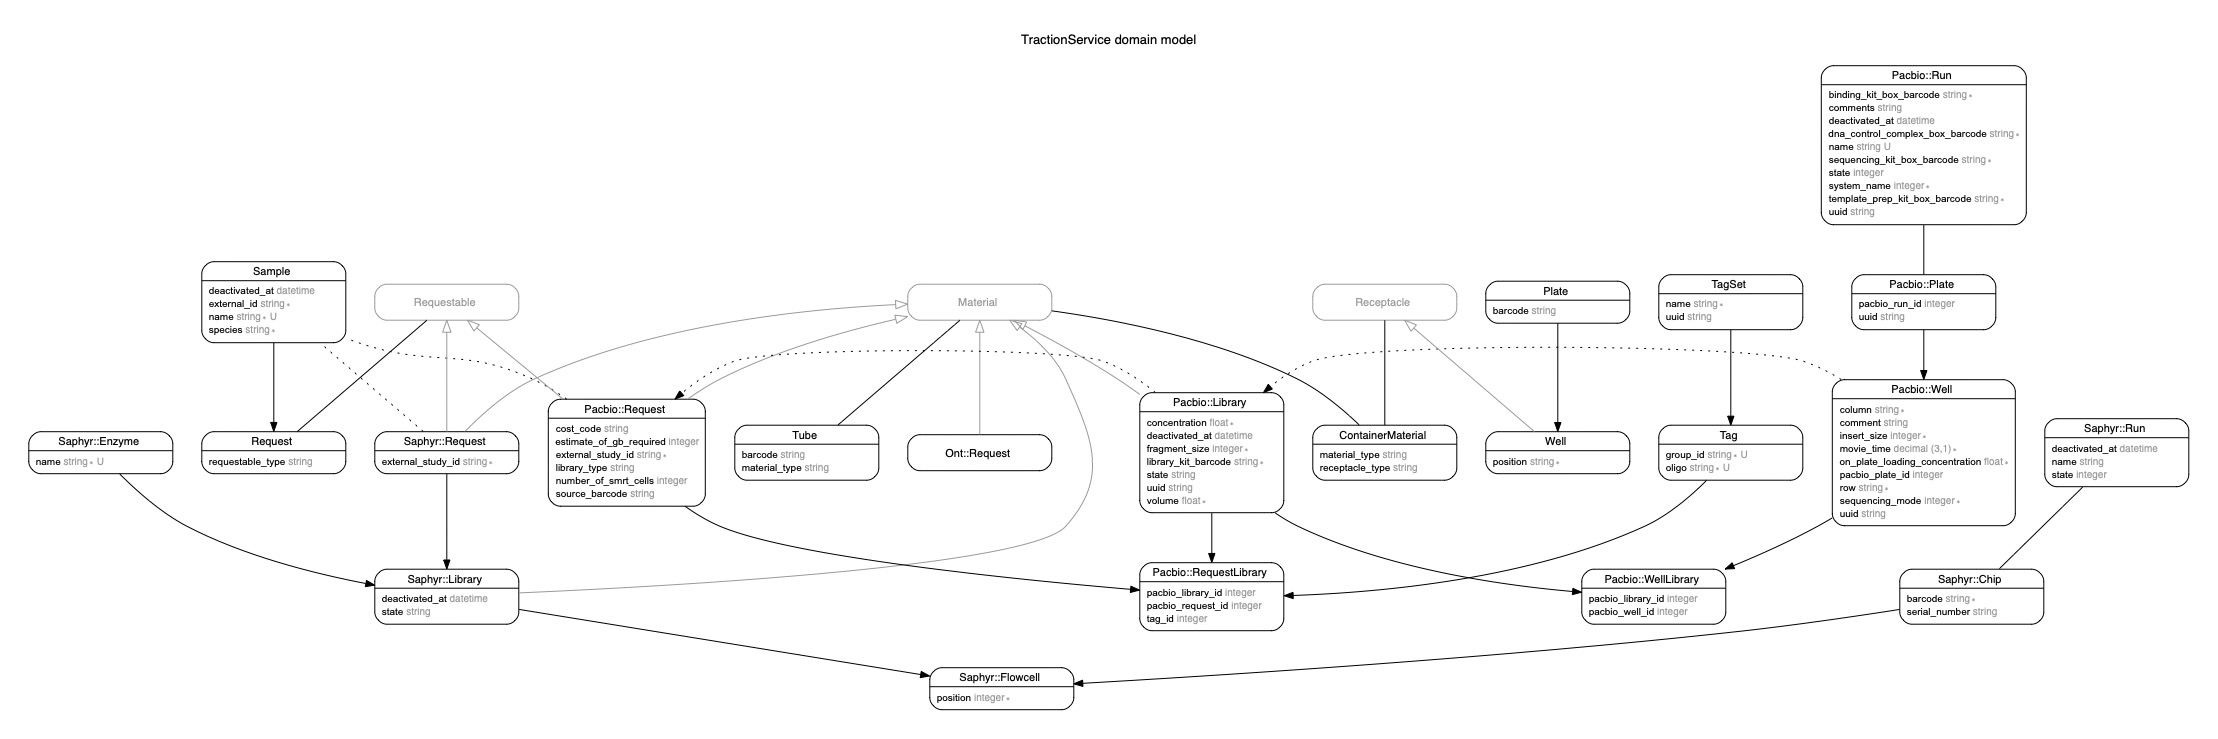
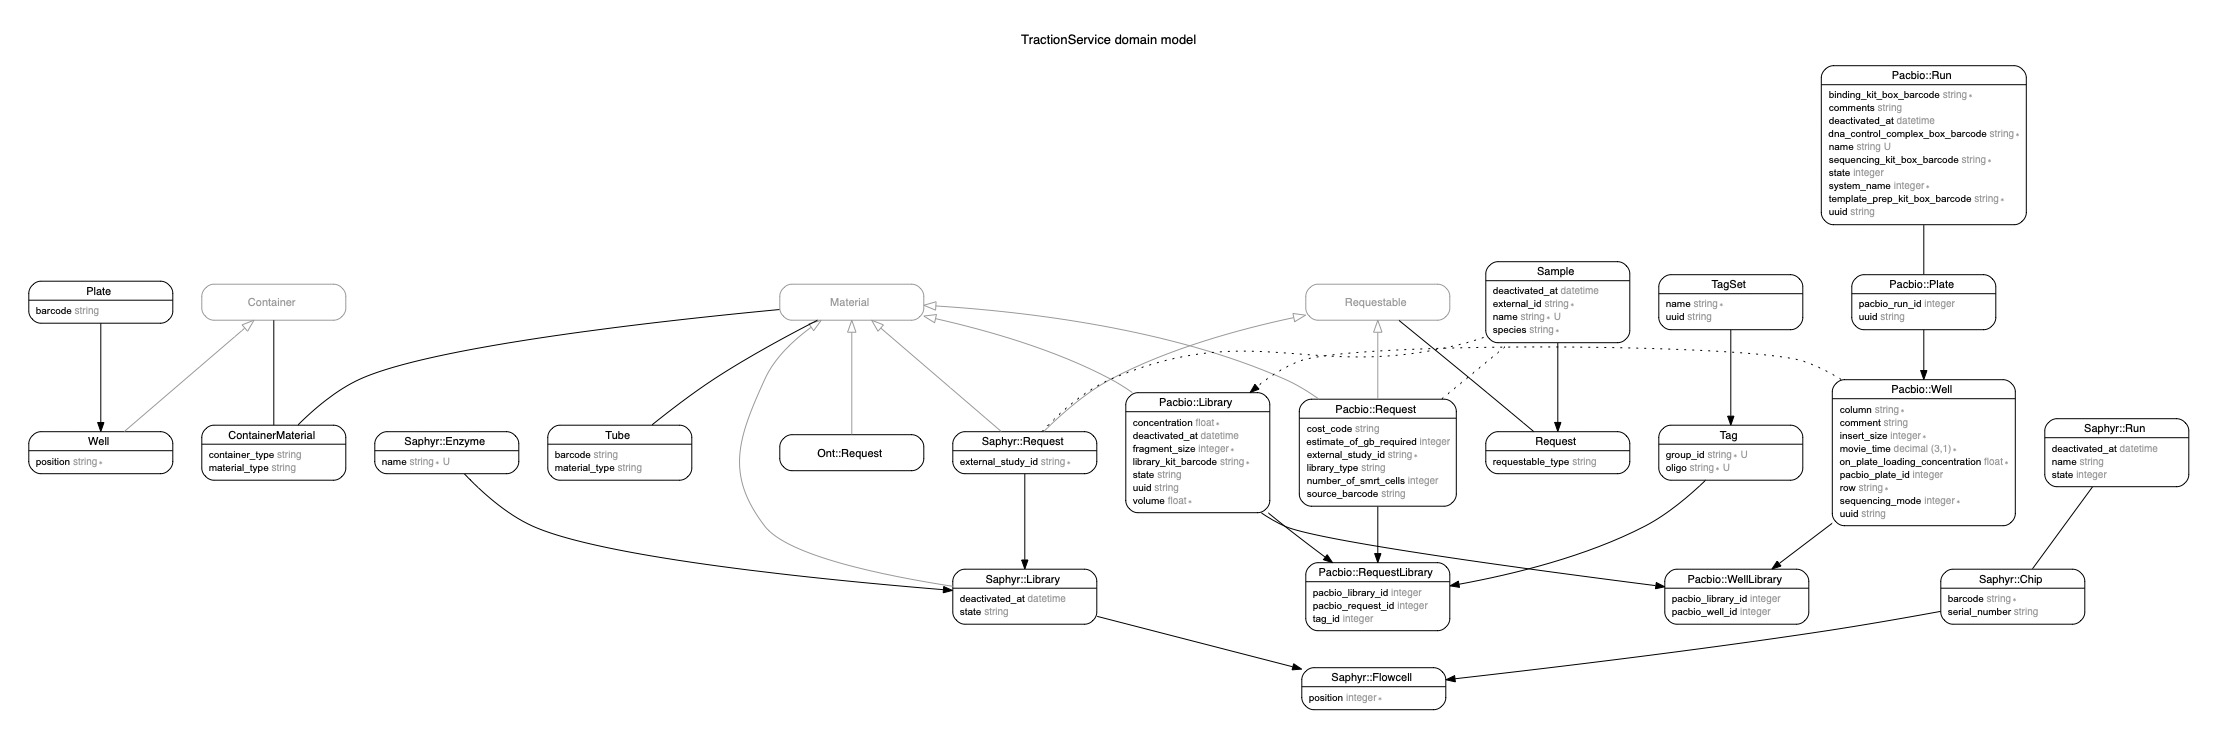
Rename receptacle concern to container

diff --git a/db/schema.rb b/db/schema.rb
@@ -13,14 +13,14 @@
 ActiveRecord::Schema.define(version: 2020_04_21_194055) do
 
   create_table "container_materials", force: :cascade do |t|
-    t.string "receptacle_type"
-    t.integer "receptacle_id"
+    t.string "container_type"
+    t.integer "container_id"
     t.string "material_type"
     t.integer "material_id"
     t.datetime "created_at", precision: 6, null: false
     t.datetime "updated_at", precision: 6, null: false
+    t.index ["container_type", "container_id"], name: "index_container_materials_on_container_type_and_container_id"
     t.index ["material_type", "material_id"], name: "index_container_materials_on_material_type_and_material_id"
-    t.index ["receptacle_type", "receptacle_id"], name: "index_container_materials_on_receptacle_type_and_receptacle_id"
   end
 
   create_table "ont_requests", force: :cascade do |t|

diff --git a/app/models/container_material.rb b/app/models/container_material.rb
@@ -1,10 +1,10 @@
 # frozen_string_literal: true
 
 # ContainerMaterial
-# A container_material provides a link between receptacles and materials
+# A container_material provides a link between containers and materials
 # This means that a material can belong to more than one container
 # And a container can have more than one type of material
 class ContainerMaterial < ApplicationRecord
-  belongs_to :receptacle, polymorphic: true
+  belongs_to :container, polymorphic: true
   belongs_to :material, polymorphic: true
 end

diff --git a/app/models/concerns/container.rb b/app/models/concerns/container.rb
@@ -1,11 +1,11 @@
 # frozen_string_literal: true
 
-# Receptacle
-module Receptacle
+# Container
+module Container
   extend ActiveSupport::Concern
 
   included do
-    has_one :container_material, as: :receptacle, dependent: :destroy
+    has_one :container_material, as: :container, dependent: :destroy
     delegate :material, to: :container_material
   end
 end

diff --git a/db/migrate/20200421194055_create_container_materials.rb b/db/migrate/20200421194055_create_container_materials.rb
@@ -1,7 +1,7 @@
 class CreateContainerMaterials < ActiveRecord::Migration[6.0]
   def change
     create_table :container_materials do |t|
-      t.belongs_to :receptacle, polymorphic: true, index: true
+      t.belongs_to :container, polymorphic: true, index: true
       t.belongs_to :material, polymorphic: true, index: true
       t.timestamps
     end

diff --git a/app/models/concerns/material.rb b/app/models/concerns/material.rb
@@ -6,6 +6,6 @@ module Material
 
   included do
     has_one :container_material, as: :material, dependent: :destroy
-    delegate :receptacle, to: :container_material
+    delegate :container, to: :container_material
   end
 end

diff --git a/app/models/well.rb b/app/models/well.rb
@@ -2,7 +2,7 @@
 
 # Well
 class Well < ApplicationRecord
-  include Receptacle
+  include Container
 
   belongs_to :plate
 
